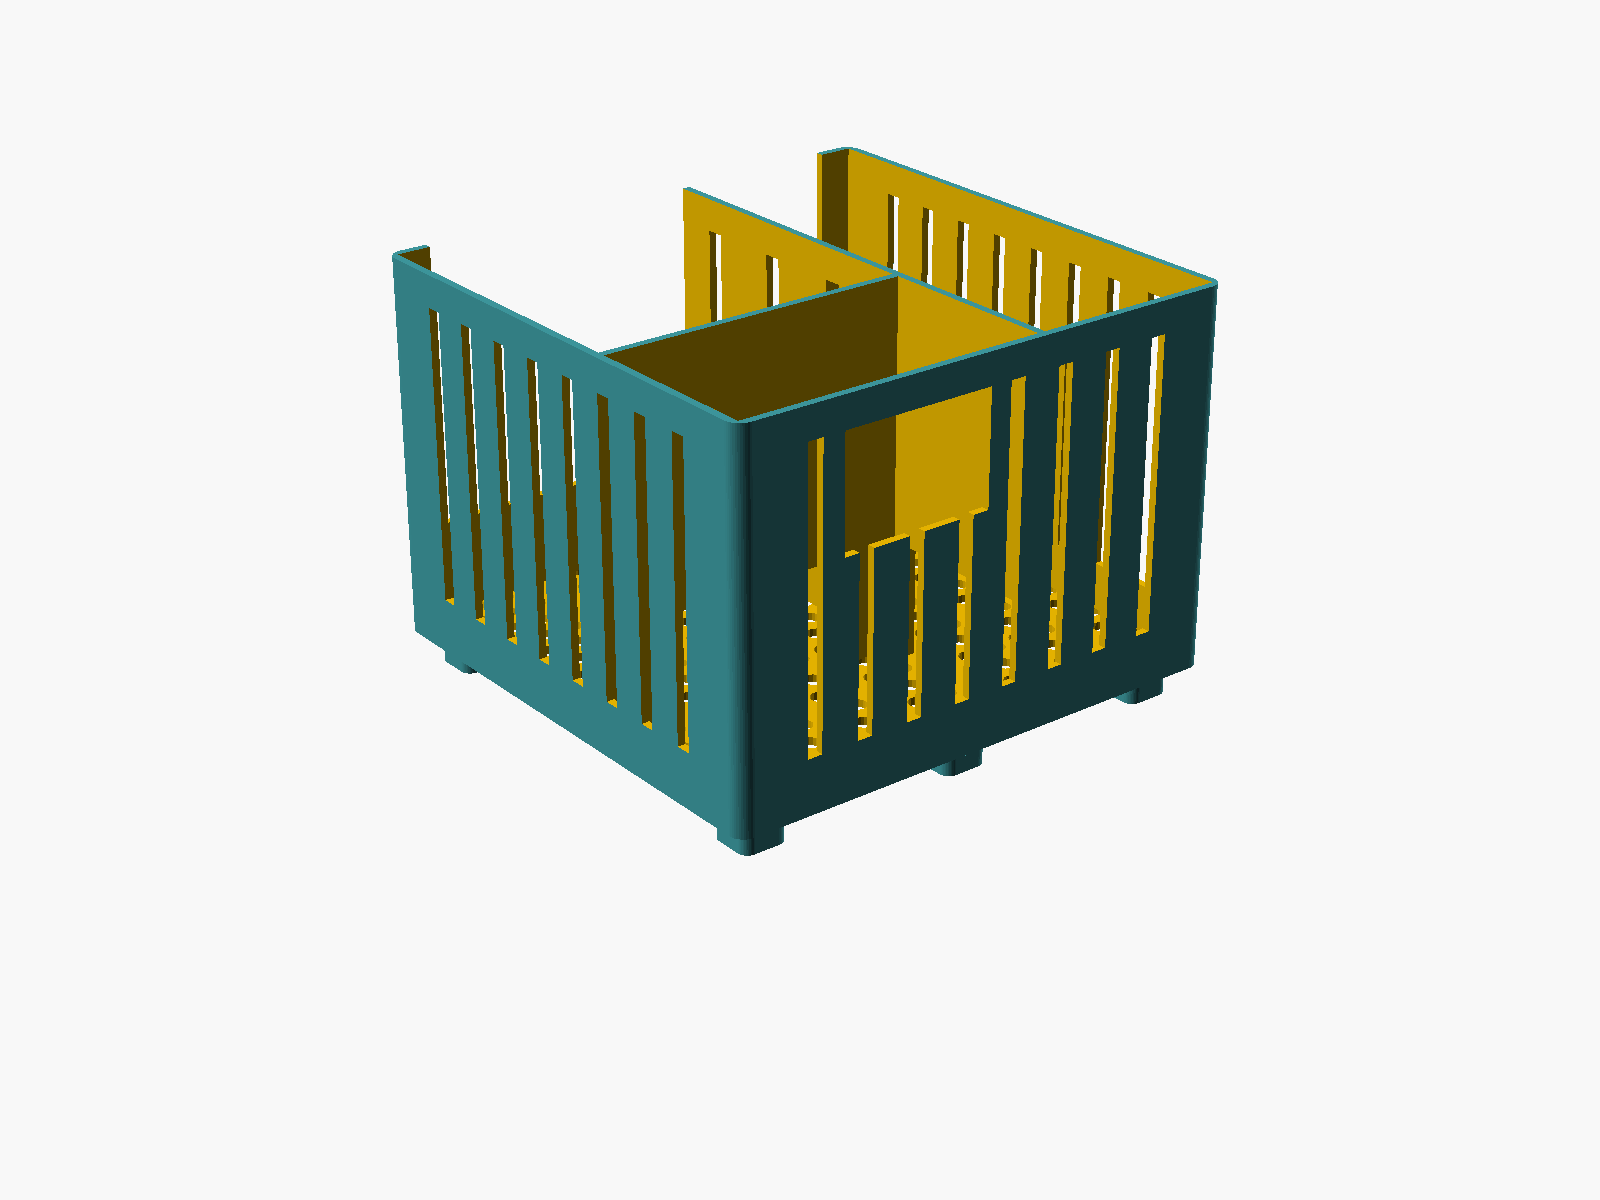
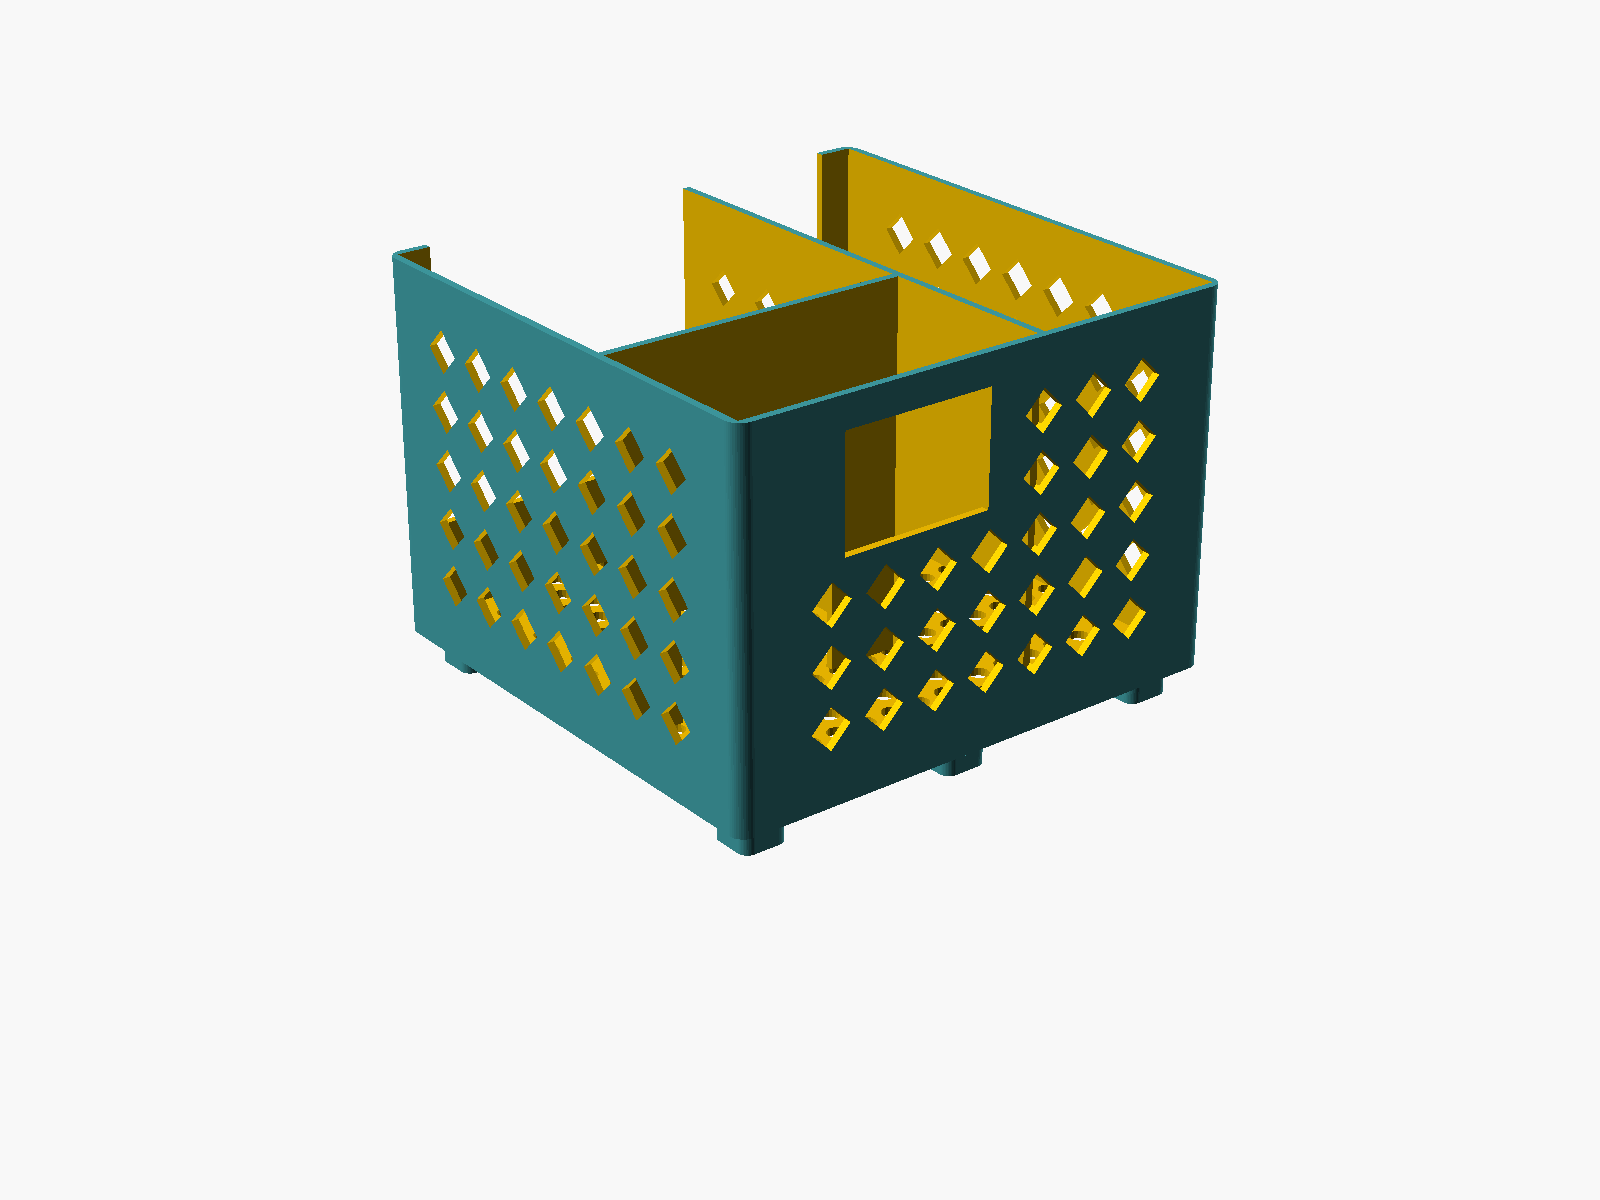
v2.6: diamond-lattice wall vents
Replace the vertical slot vents on the outer walls (back/left/right) and the
+X divider with a 45deg diamond lattice (self-supporting, no bridging). Floor
keeps its hex perforation; the back lattice skips the cable-window footprint so
the window keeps a clean border. STL re-exported at $fn=64.

Changed region(s): [[0.5, 0.1542, 0.75, 0.6475], [0.25, 0.2467, 0.4375, 0.6167], [0.4375, 0.185, 0.5, 0.2775]]

diff --git a/README.md b/README.md
@@ -56,7 +56,8 @@ cable/port access and heat relief.
 - Hex-staggered perforated **floor** under every bay.
 - **12 mm raised feet** → an open air gap under the whole caddy so air enters
   from below and rises through the floor holes and open tops.
-- Vertical **slot vents** in the side and back walls.
+- **Diamond-lattice vents** across the side, back, and divider walls (diamonds
+  self-support at 45° so they print without bridging).
 - **Open tops**; towers stand exposed above the shell line.
 
 ## Cable input + storage + router orientation
@@ -102,9 +103,17 @@ storage depth, vent + cable-notch sizing). Change one and re-run `just build`.
 
 ## Versions
 
+- **v2.6** — wall vents restyled from vertical slots to a **diamond lattice**
+  (outer walls + dividers); floor stays hex, cable window keeps its clean border.
+  ![back](images/caddy-back.png)
+- **v2.5** — restored the back vent slots and shifted the cable window onto the
+  slot grid so it keeps ~8 mm wall on each side (removed the thin sliver without
+  deleting any slits). *(slots later replaced by diamonds in v2.6.)*
+- **v2.4** — re-export at `$fn=64` (final smoothness).
+- **v2.3** — kept back vent slots clear of the cable window (superseded by v2.5).
 - **v2.2** — back cable cutout closed at the top with a rim bar (`back_rim`),
   so the wall sections flanking it are tied top and bottom instead of being
-  free-topped flaps. ![back](images/caddy-back.png)
+  free-topped flaps.
 - **v2.1** — cabling fix: both routers' port faces aimed into the central
   storage bay via low divider pass-throughs; extra vents in the divider beside
   the Orbi's broad face. Same footprint, still one print.